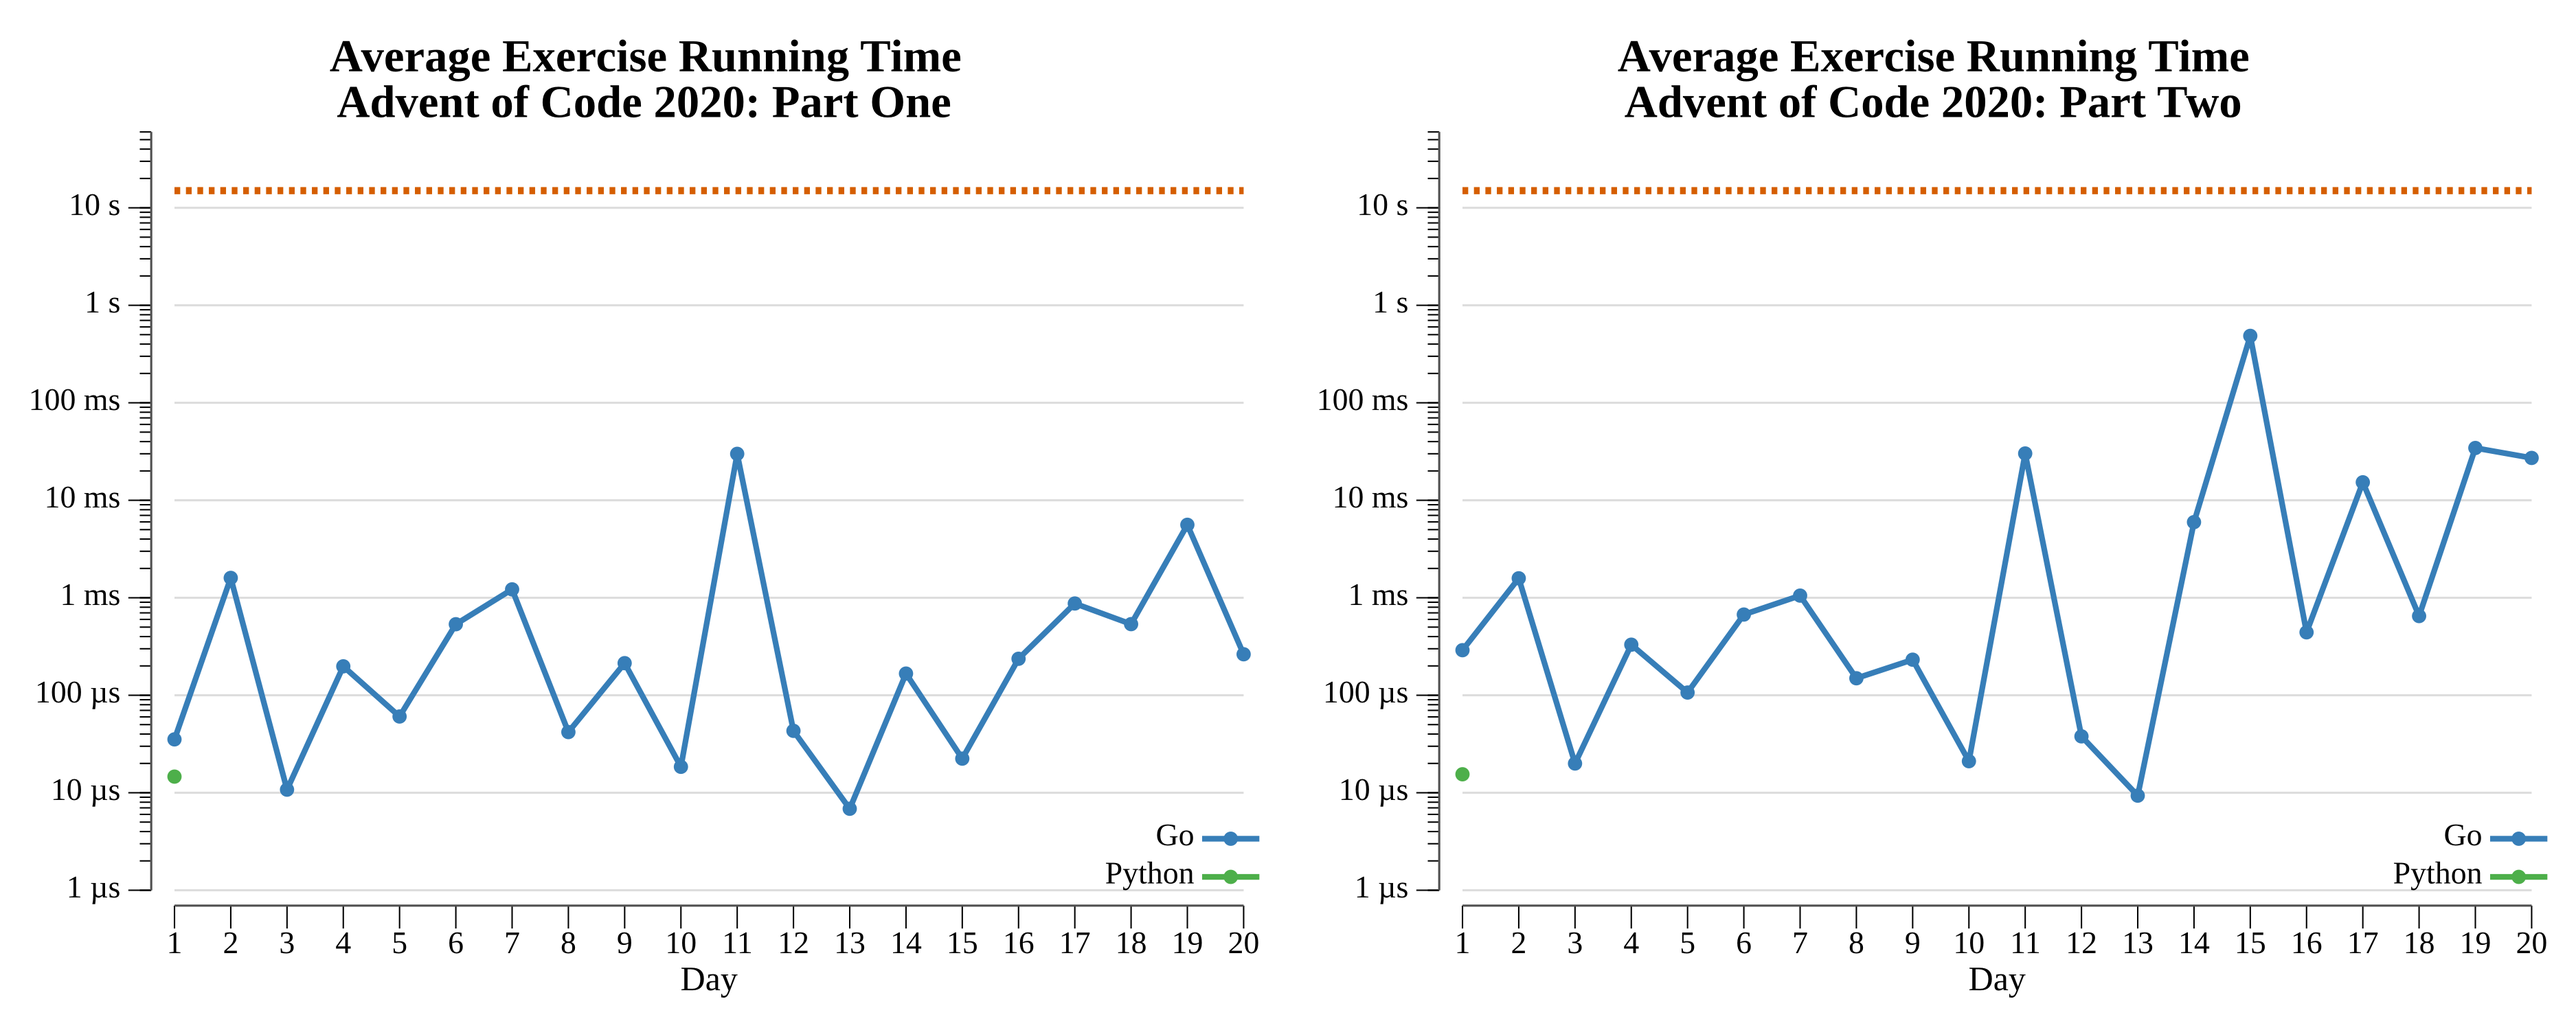
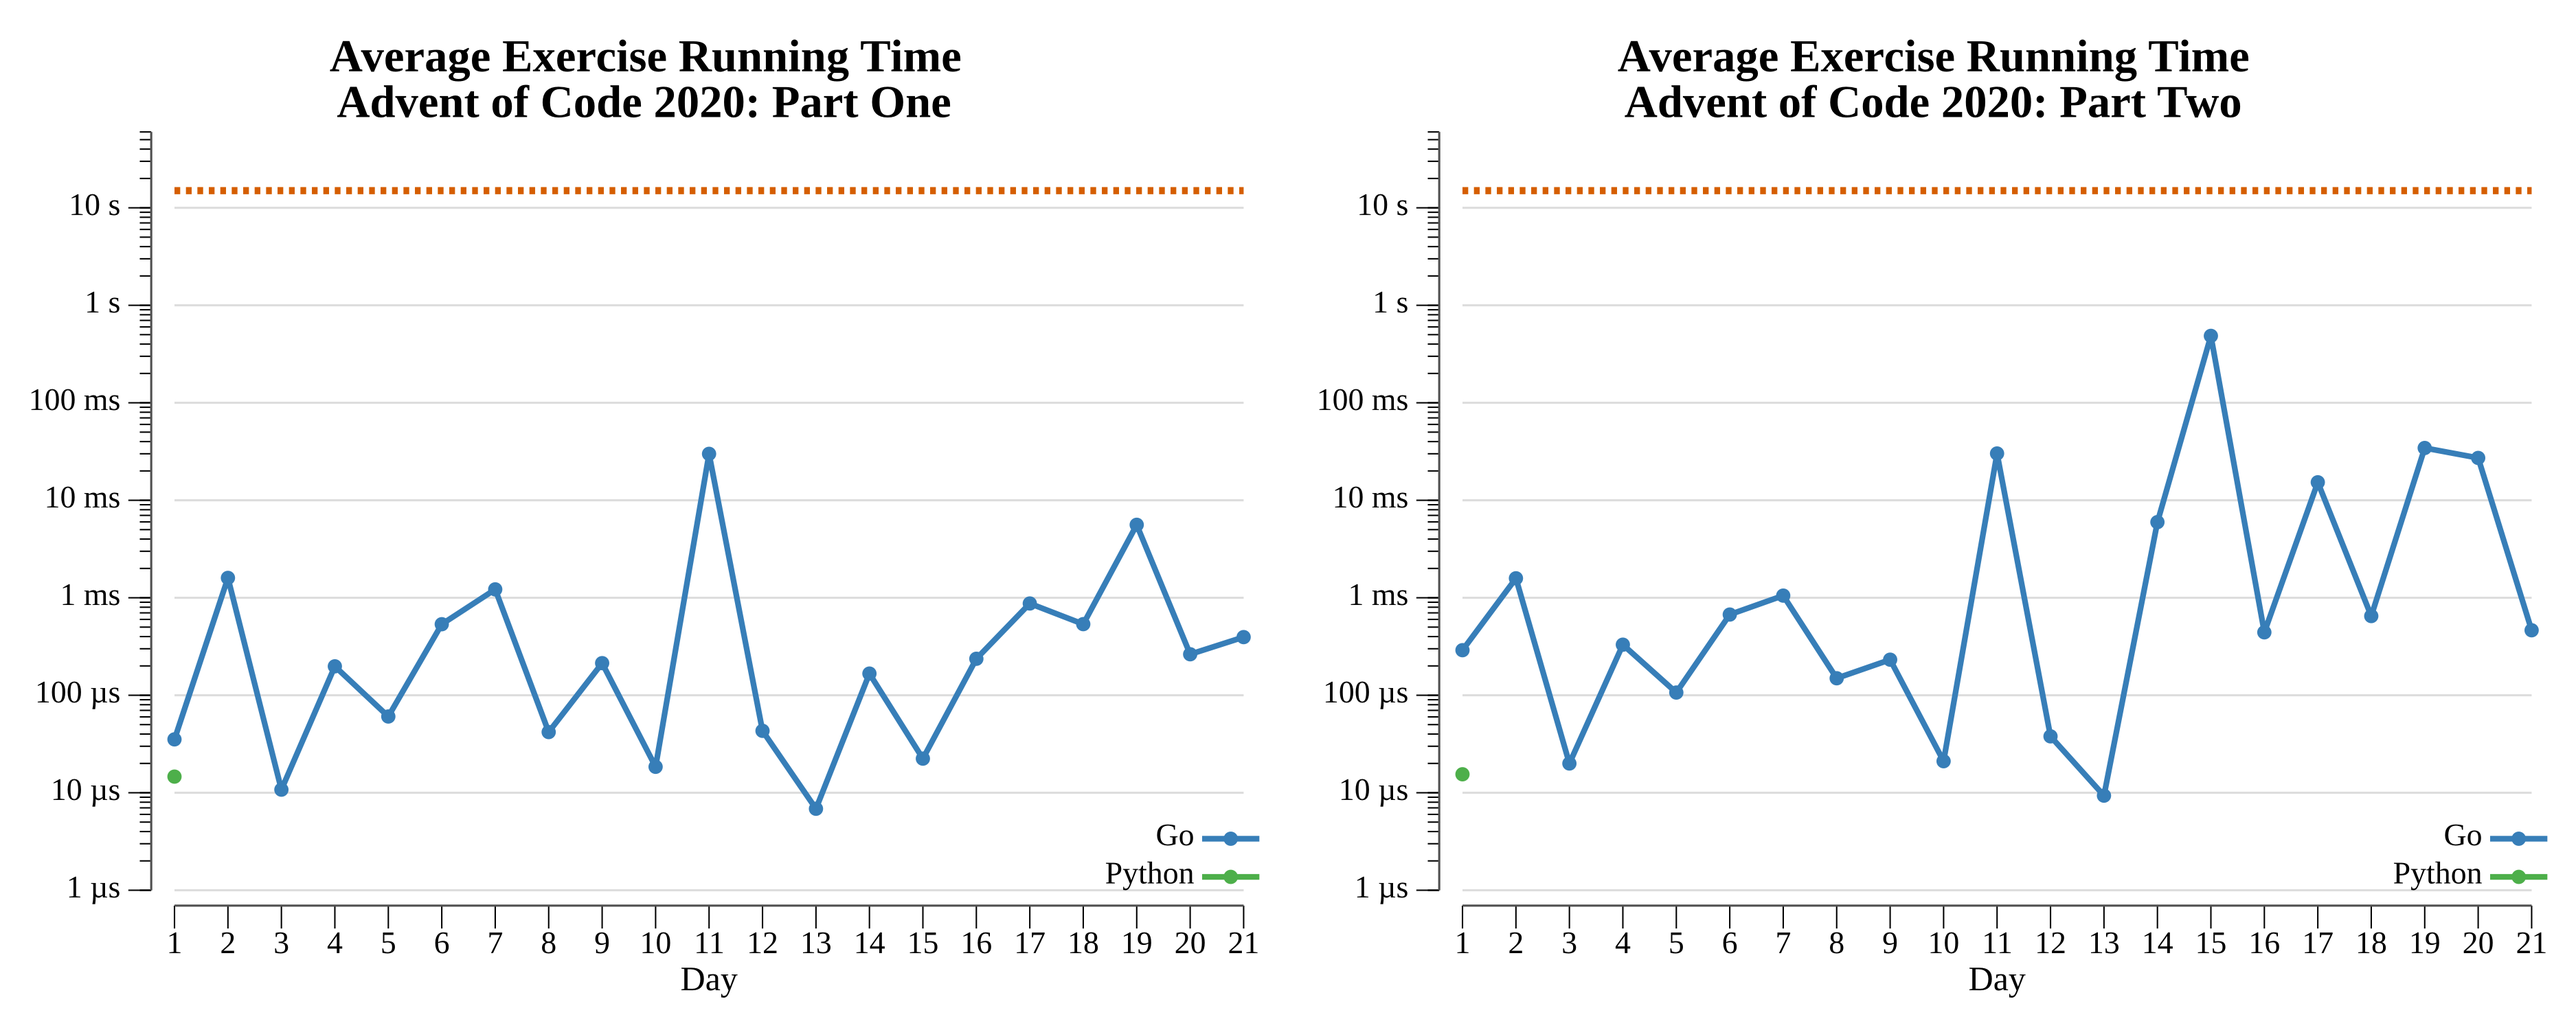
2020 day 21

diff --git a/exercises/2020/21-allergenAssessment/go/vis.go b/exercises/2020/21-allergenAssessment/go/vis.go
@@ -1,0 +1,125 @@
+package exercises
+
+import (
+	"fmt"
+	"os"
+	"path/filepath"
+	"sort"
+	"strings"
+)
+
+// Vis shows the allergen-to-ingredient deduction as a candidate matrix: rows are
+// allergens, columns are the suspect ingredients (those that could contain some
+// allergen). A filled cell means that ingredient is a candidate for that allergen
+// (it appears in every food declaring it); constraint propagation reduces the
+// matrix to one ingredient per allergen, and those solved cells are outlined. The
+// solved ingredients, read in allergen-name order, form the Part Two answer.
+// Candidates and the solved matching are distinguished by outline and position as
+// well as color, so the grid reads in grayscale.
+func (e Exercise) Vis(instr, outdir string) error {
+	foods := parse(instr)
+	cand := candidates(foods)
+
+	// Suspect ingredients (candidate for at least one allergen), sorted.
+	suspectSet := map[string]bool{}
+	for _, ings := range cand {
+		for ing := range ings {
+			suspectSet[ing] = true
+		}
+	}
+	ingredients := make([]string, 0, len(suspectSet))
+	for ing := range suspectSet {
+		ingredients = append(ingredients, ing)
+	}
+	sort.Strings(ingredients)
+
+	allergens := make([]string, 0, len(cand))
+	for a := range cand {
+		allergens = append(allergens, a)
+	}
+	sort.Strings(allergens)
+
+	// Resolve (on a copy) to know the final assignment.
+	work := map[string]map[string]bool{}
+	for a, ings := range cand {
+		work[a] = map[string]bool{}
+		for ing := range ings {
+			work[a][ing] = true
+		}
+	}
+	solved := map[string]string{}
+	for len(solved) < len(work) {
+		for a, ings := range work {
+			if _, done := solved[a]; done || len(ings) != 1 {
+				continue
+			}
+			var ing string
+			for i := range ings {
+				ing = i
+			}
+			solved[a] = ing
+			for other := range work {
+				if other != a {
+					delete(work[other], ing)
+				}
+			}
+		}
+	}
+
+	const (
+		cell   = 24
+		labelW = 90
+		colLbl = 90
+		mL     = 10
+	)
+	mT := colLbl + 20
+	nc := len(ingredients)
+	nr := len(allergens)
+	gridW := nc * cell
+	W := mL + labelW + gridW + 20
+	if W < 470 {
+		W = 470 // ensure the title and footer fit
+	}
+	H := mT + nr*cell + 30
+
+	candCol := "#56B4E9"  // sky blue: candidate
+	solveCol := "#F0E442" // yellow: resolved
+
+	var sb strings.Builder
+	fmt.Fprintf(&sb, `<svg xmlns="http://www.w3.org/2000/svg" width="%d" height="%d" viewBox="0 0 %d %d" font-family="monospace">`, W, H, W, H)
+	fmt.Fprintf(&sb, `<rect width="%d" height="%d" fill="#111418"/>`, W, H)
+	fmt.Fprintf(&sb, `<text x="%d" y="18" fill="#e8ecf4" font-size="14">Allergen Assessment: candidate ingredients per allergen</text>`, mL)
+
+	gx := mL + labelW
+	// Column (ingredient) labels, rotated.
+	for c, ing := range ingredients {
+		cx := gx + c*cell + cell/2
+		fmt.Fprintf(&sb, `<text x="%d" y="%d" fill="#9aa4b2" font-size="10" transform="rotate(-55 %d %d)" text-anchor="start">%s</text>`,
+			cx, mT-6, cx, mT-6, ing)
+	}
+
+	for r, a := range allergens {
+		y := mT + r*cell
+		fmt.Fprintf(&sb, `<text x="%d" y="%d" fill="#c8d0dc" font-size="12" text-anchor="end">%s</text>`, mL+labelW-6, y+cell/2+4, a)
+		for c, ing := range ingredients {
+			cx := gx + c*cell
+			isCand := cand[a][ing]
+			isSolved := solved[a] == ing
+			fillCol := "#1b1f26"
+			if isSolved {
+				fillCol = solveCol
+			} else if isCand {
+				fillCol = candCol
+			}
+			fmt.Fprintf(&sb, `<rect x="%d" y="%d" width="%d" height="%d" fill="%s"/>`, cx+1, y+1, cell-2, cell-2, fillCol)
+			if isSolved {
+				fmt.Fprintf(&sb, `<rect x="%d" y="%d" width="%d" height="%d" fill="none" stroke="#e8ecf4" stroke-width="2"/>`, cx+1, y+1, cell-2, cell-2)
+			}
+		}
+	}
+
+	fmt.Fprintf(&sb, `<text x="%d" y="%d" fill="#9aa4b2" font-size="11">filled = candidate; outlined = resolved (part 2, read in allergen order)</text>`, mL, H-10)
+
+	sb.WriteString(`</svg>`)
+	return os.WriteFile(filepath.Join(outdir, "allergen-assessment.svg"), []byte(sb.String()), 0o600)
+}

diff --git a/exercises/2020/21-allergenAssessment/go/exercise.go b/exercises/2020/21-allergenAssessment/go/exercise.go
@@ -1,0 +1,133 @@
+package exercises
+
+import (
+	"fmt"
+	"sort"
+	"strings"
+
+	"github.com/asphaltbuffet/advent-of-code/internal/common"
+)
+
+// Exercise for Advent of Code 2020 day 21.
+type Exercise struct {
+	common.BaseExercise
+}
+
+// food is one line: its ingredient list and its declared allergens.
+type food struct {
+	ingredients []string
+	allergens   []string
+}
+
+func parse(instr string) []food {
+	var foods []food
+	for _, line := range strings.Split(strings.TrimSpace(instr), "\n") {
+		line = strings.TrimSpace(line)
+		ingPart := line
+		var allergens []string
+		if i := strings.Index(line, " (contains "); i >= 0 {
+			ingPart = line[:i]
+			list := strings.TrimSuffix(line[i+len(" (contains "):], ")")
+			for _, a := range strings.Split(list, ", ") {
+				allergens = append(allergens, a)
+			}
+		}
+		foods = append(foods, food{ingredients: strings.Fields(ingPart), allergens: allergens})
+	}
+	return foods
+}
+
+// candidates maps each allergen to the set of ingredients that could contain it:
+// the intersection of ingredient lists across every food declaring that allergen.
+func candidates(foods []food) map[string]map[string]bool {
+	cand := map[string]map[string]bool{}
+	for _, f := range foods {
+		ingSet := map[string]bool{}
+		for _, ing := range f.ingredients {
+			ingSet[ing] = true
+		}
+		for _, a := range f.allergens {
+			if cand[a] == nil {
+				// first sighting: copy the ingredient set
+				cand[a] = map[string]bool{}
+				for ing := range ingSet {
+					cand[a][ing] = true
+				}
+				continue
+			}
+			// intersect with this food's ingredients
+			for ing := range cand[a] {
+				if !ingSet[ing] {
+					delete(cand[a], ing)
+				}
+			}
+		}
+	}
+	return cand
+}
+
+// One counts appearances of ingredients that cannot be any allergen.
+func (e Exercise) One(instr string) (any, error) {
+	foods := parse(instr)
+	cand := candidates(foods)
+
+	// Ingredients that are a candidate for at least one allergen.
+	suspect := map[string]bool{}
+	for _, ings := range cand {
+		for ing := range ings {
+			suspect[ing] = true
+		}
+	}
+
+	count := 0
+	for _, f := range foods {
+		for _, ing := range f.ingredients {
+			if !suspect[ing] {
+				count++
+			}
+		}
+	}
+
+	return fmt.Sprintf("%d", count), nil
+}
+
+// Two resolves each allergen to its single ingredient and returns the canonical
+// dangerous list: those ingredients ordered by allergen name, comma-joined.
+func (e Exercise) Two(instr string) (any, error) {
+	cand := candidates(parse(instr))
+
+	// Constraint propagation: repeatedly fix allergens with one candidate.
+	resolved := map[string]string{} // allergen -> ingredient
+	for len(resolved) < len(cand) {
+		progress := false
+		for a, ings := range cand {
+			if _, done := resolved[a]; done || len(ings) != 1 {
+				continue
+			}
+			var ing string
+			for i := range ings {
+				ing = i
+			}
+			resolved[a] = ing
+			progress = true
+			for other := range cand {
+				delete(cand[other], ing)
+			}
+		}
+		if !progress {
+			return nil, fmt.Errorf("could not resolve allergens")
+		}
+	}
+
+	allergens := make([]string, 0, len(resolved))
+	for a := range resolved {
+		allergens = append(allergens, a)
+	}
+	sort.Strings(allergens)
+
+	ings := make([]string, len(allergens))
+	for i, a := range allergens {
+		ings[i] = resolved[a]
+	}
+	return strings.Join(ings, ","), nil
+}

diff --git a/exercises/2020/21-allergenAssessment/README.md b/exercises/2020/21-allergenAssessment/README.md
@@ -1,0 +1,51 @@
+# [Day 21: Allergen Assessment](https://adventofcode.com/2020/day/21)
+
+<!-- These are helper text to make formatting the yearly readme consistent and easier...
+
+[Day 21: Allergen Assessment][rm21]
+[Go][go21]
+
+[rm21]: 21-allergenAssessment/README.md
+[go21]: 21-allergenAssessment/go
+
+-->
+
+## Notes
+
+Each allergen is carried by exactly one ingredient, but ingredients may be
+listed in any language. An allergen's candidate ingredients are the intersection
+of the ingredient lists across every food that declares it.
+
+- **Part One** counts appearances of ingredients that are a candidate for no
+  allergen — the safe ones.
+- **Part Two** resolves the mapping by constraint propagation (repeatedly fix any
+  allergen with a single candidate and remove that ingredient from the rest), then
+  lists the dangerous ingredients ordered by allergen name, comma-joined.
+
+## Go
+
+```text
+────────────────────────────────────────
+─   2020 Day 21: Allergen Assessment   ─
+────────────────────────────────────────
+
+Solving (Go)…
+1.0:  PASS           449.637µs
+2.0:  PASS           418.145µs
+```
+
+## Visualization
+
+The deduction as a candidate matrix: rows are allergens, columns are the suspect
+ingredients (candidate for some allergen). A filled cell means that ingredient
+could carry that allergen; constraint propagation reduces the matrix to one
+ingredient per allergen, and those solved cells are outlined in white. Reading the
+outlined cells down the rows in allergen-name order spells the Part Two answer.
+Candidates and the solved matching are distinguished by outline and position as
+well as color, so the grid reads in grayscale.
+
+![Allergen-to-ingredient constraint matrix](allergen-assessment.svg)
+
+## Run Times
+
+![Day 21 run-time graphs](run-times.png)

diff --git a/exercises/2020/README.md b/exercises/2020/README.md
@@ -26,7 +26,7 @@
 | [Day 18: Operation Order][rm_18] |  ★ ★  | [Go][go_18] |
 | [Day 19: Monster Messages][rm_19] |  ★ ★  | [Go][go_19] |
 | [Day 20: Jurassic Jigsaw][rm_20] |  ★ ★  | [Go][go_20] |
-| 21                           |  ☆ ☆  |            |
+| [Day 21: Allergen Assessment][rm_21] |  ★ ★  | [Go][go_21] |
 | 22                           |  ☆ ☆  |            |
 | 23                           |  ☆ ☆  |            |
 | 24                           |  ☆ ☆  |            |
@@ -72,6 +72,8 @@
 [go_19]: 19-monsterMessages/go
 [rm_20]: 20-jurassicJigsaw/README.md
 [go_20]: 20-jurassicJigsaw/go
+[rm_21]: 21-allergenAssessment/README.md
+[go_21]: 21-allergenAssessment/go
 
 ## 2020 Run Times
 
